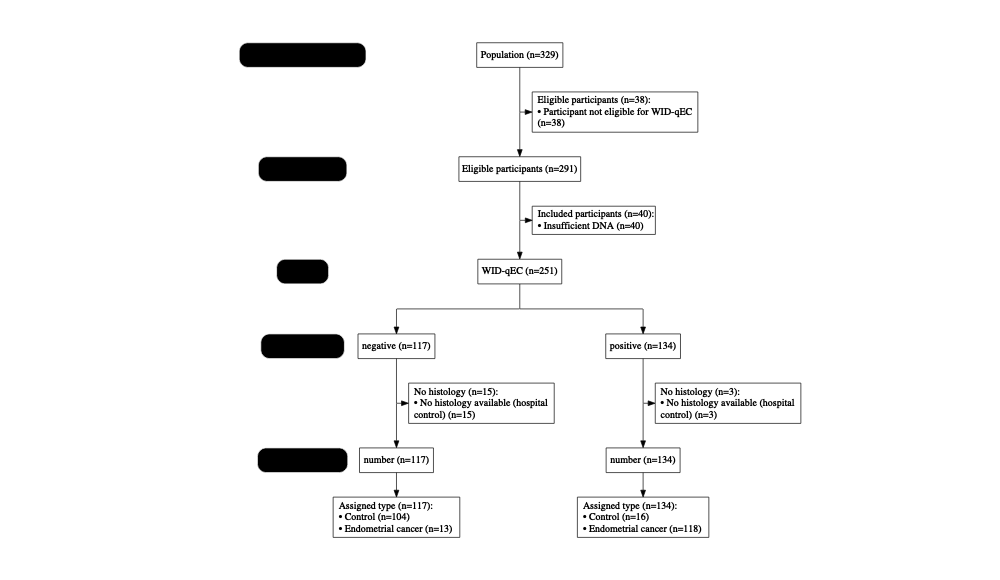
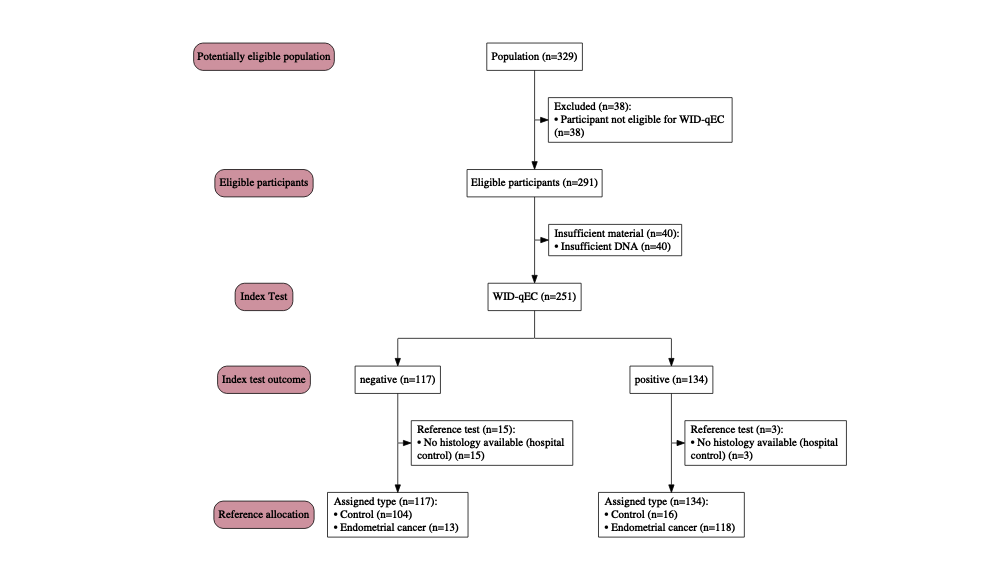
update readme

diff --git a/README.md b/README.md
@@ -36,21 +36,8 @@ library(stard)
 ```
 
 ``` r
-library(dplyr)
-```
+suppressPackageStartupMessages(library(dplyr)) # dplyr for data wrangling
 
-    ## 
-    ## Attaching package: 'dplyr'
-
-    ## The following objects are masked from 'package:stats':
-    ## 
-    ##     filter, lag
-
-    ## The following objects are masked from 'package:base':
-    ## 
-    ##     intersect, setdiff, setequal, union
-
-``` r
 # Load data
 mldat <- stard::mldat
 
@@ -108,12 +95,11 @@ head(data)
 ``` r
 out <- stard_plot(data = data,
                   order = c(id ="Population",
-                            excluded = "Eligible participants",
+                            excluded = "Excluded",
                             excltext  = "Eligible participants",
-                            insufficient = "Included participants",
+                            insufficient = "Insufficient material",
                             qEC = "WID-qEC",
-                            histology_available = 'No histology',
-                            id = 'number',
+                            histology_available = 'Reference test',
                             type = "Assigned type"),
                   side_box = c("excluded",
                                "insufficient"),
@@ -125,7 +111,8 @@ out <- stard_plot(data = data,
                              "3" = 'Index Test',
                              "4" = "Index test outcome",
                              "5" = "Reference allocation"),
-                  cex = 0.8)
+                  cex = 0.7,
+                  text_width = 25)
 
 
 plot(out)
@@ -138,12 +125,11 @@ We can also modulate label colours, font, and text width:
 ``` r
 out <- stard_plot(data = data,
                   order = c(id ="Population",
-                            excluded = "Eligible participants",
+                            excluded = "Excluded",
                             excltext  = "Eligible participants",
-                            insufficient = "Included participants",
+                            insufficient = "Insufficient material",
                             qEC = "WID-qEC",
-                            histology_available = 'No histology',
-                            id = 'number',
+                            histology_available = 'Reference test',
                             type = "Assigned type"),
                   side_box = c("excluded",
                                "insufficient"),
@@ -155,10 +141,10 @@ out <- stard_plot(data = data,
                              "3" = 'Index Test',
                              "4" = "Index test outcome",
                              "5" = "Reference allocation"),
-                  cex = 0.8,
+                  cex = 0.7,
                   fontfam = 'Guardian Sans',
-                  col = 'white',
-                  fill = 'black',
+                  col = 'black',
+                  fill = 'pink3',
                   text_width = 40)
 
 plot(out)
@@ -195,7 +181,7 @@ helpful for additional information where subsetting is not desired.
 As in the `consort` diagram, a `Graphviz` plot can be produced by
 setting `grViz = TRUE` in `plot`. This will use `DiagrammeR` to print
 the plot and is ideal for Shiny or HTML output. However, this might not
-necessarily work with custom formatting yet.
+necessarily work with custom formatting yet (e.g., font size or colour).
 
 ``` r
 plot(out, grViz = TRUE)
